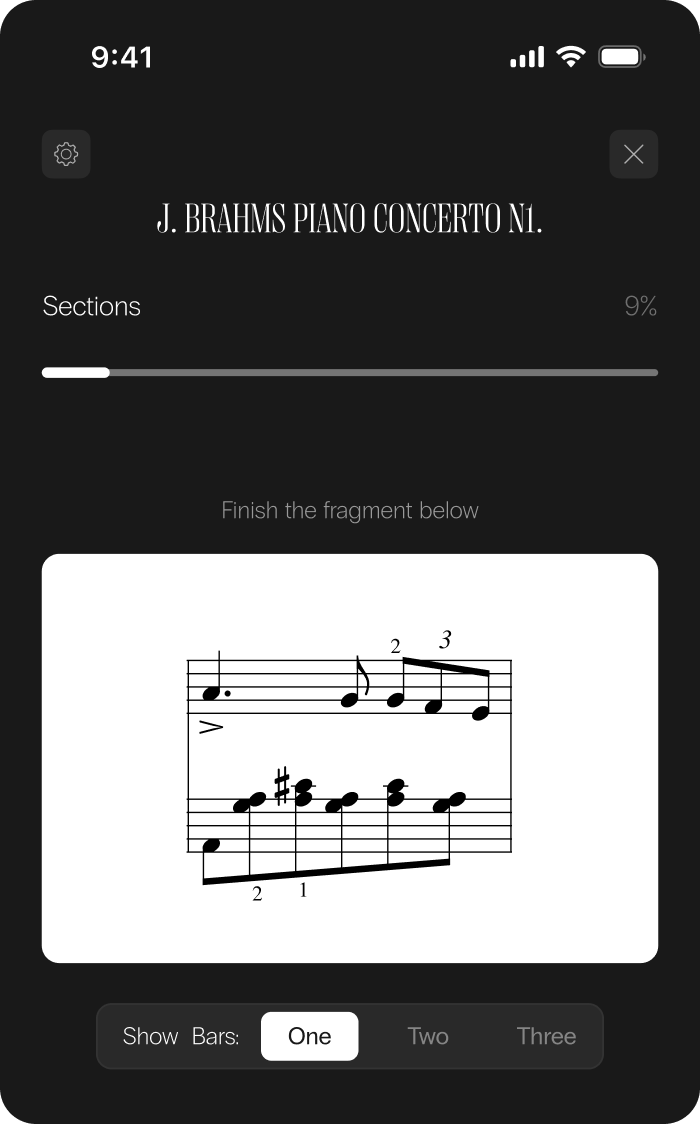
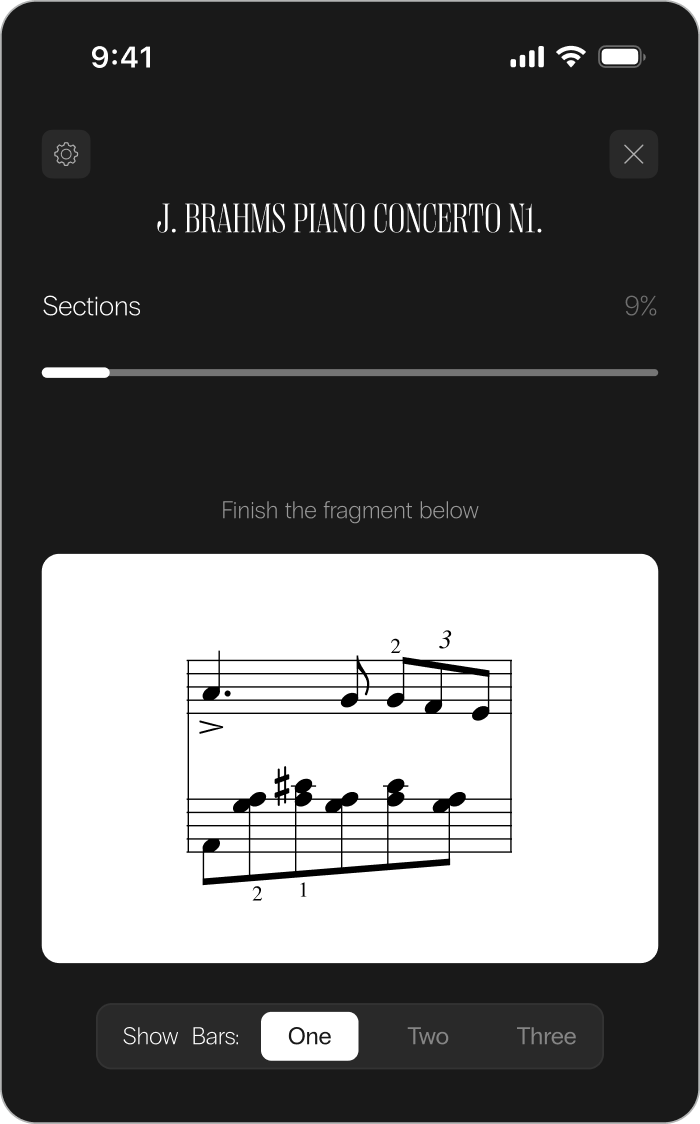
Take the practice-screen export with the phone border
Only the outer edge changed — the interior is pixel-identical, so the
chip and the selector sheet stay registered where they were. Re-checked
the rendered geometry against the new file: chip, modal and carousel
window all land within 0.01% of the design.

The left screen of the pair is still on an export without that border,
so the two read mismatched. Noted in ASSETS.md.

Claude-Session: https://claude.ai/code/session_01GpWM6PTP2r1tkmsJUUbeJG

diff --git a/public/projects/performory/ASSETS.md b/public/projects/performory/ASSETS.md
@@ -26,9 +26,12 @@ All exports go in this folder (`public/projects/performory/`).
 - `practice-element-1-bar/2-bars/3-bars.png` — the notation cards that drop into
   that slot, one per option
 - `practice-screen-no-sections.png` — "Taming the Monster", left screen: the
-  same practice screen with no sections row at all
+  same practice screen with no sections row at all. **Still exported without the
+  light border** the right screen now carries, so the pair reads mismatched —
+  a re-export with the border would settle it
 - `practice-screen.png` — the right screen of that pair, with the **sections
-  chip left out of its row**; the chip is drawn in markup over it
+  chip left out of its row**; the chip is drawn in markup over it. Carries a
+  light hairline border around the phone
 - `sections-selector-modal.png` — the selector sheet with its **carousel left
   empty**; the cards, their names and the selectors are drawn over it
 - `section-card-all.png`, `section-card-01.png` … `section-card-05.png` — the
